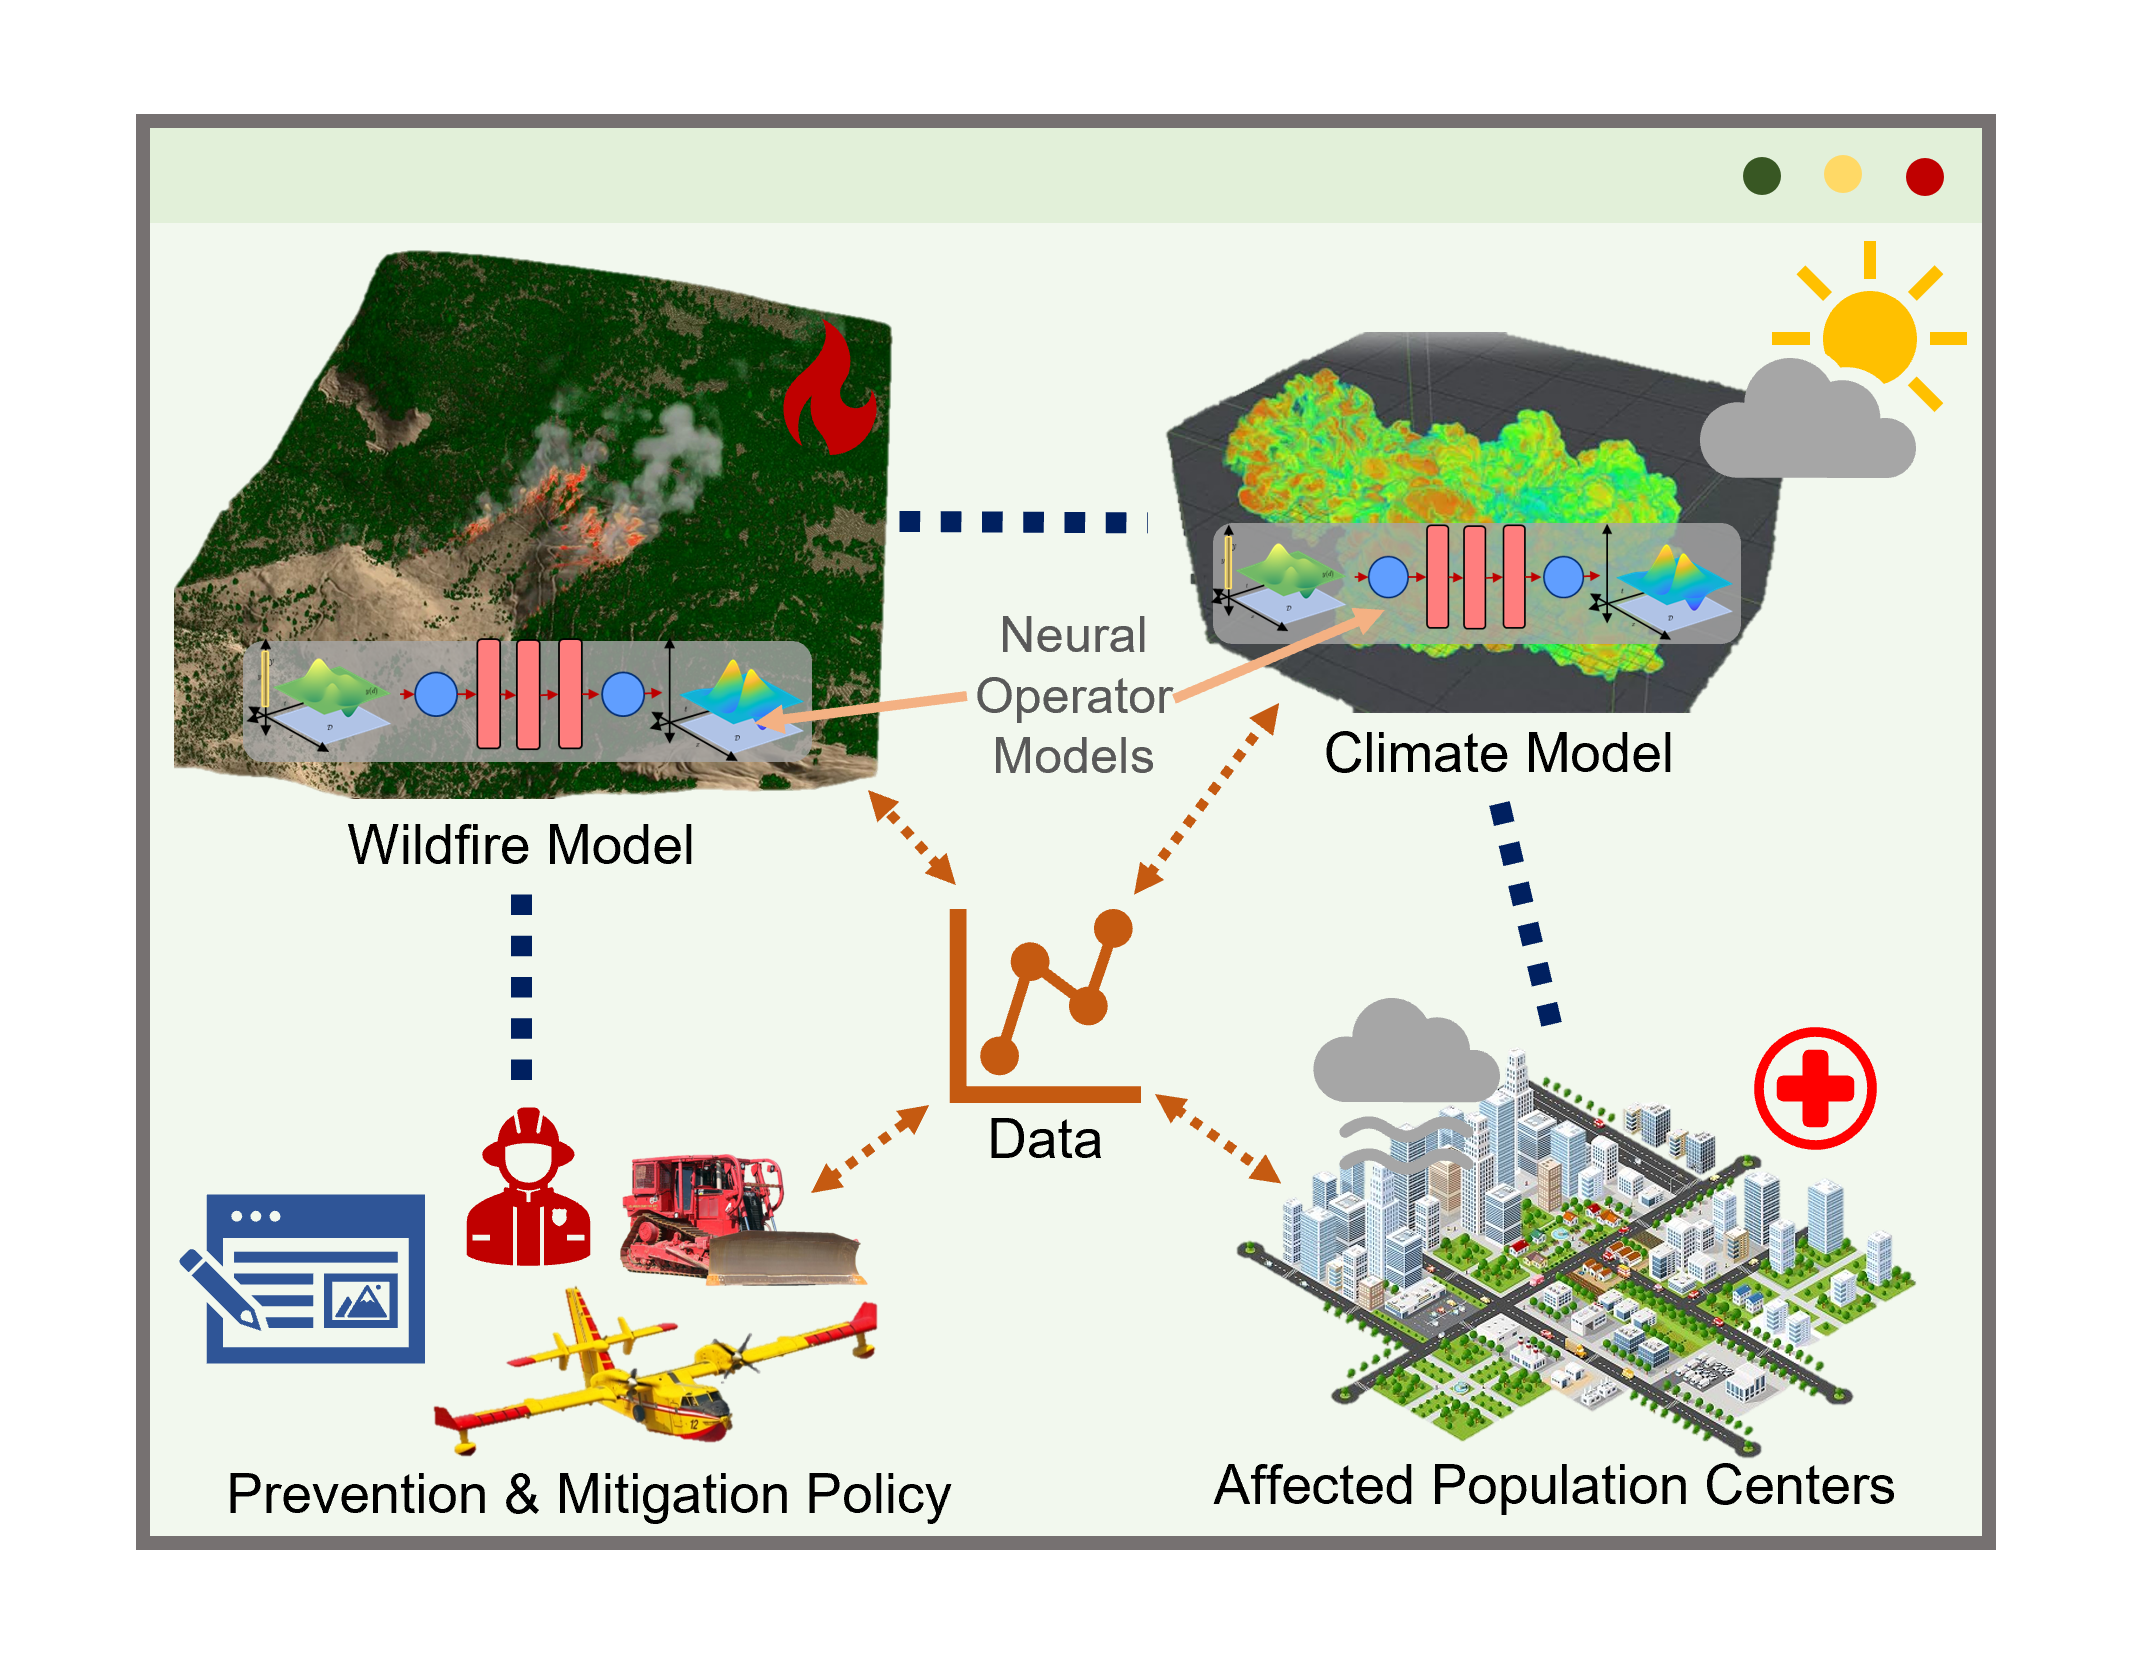
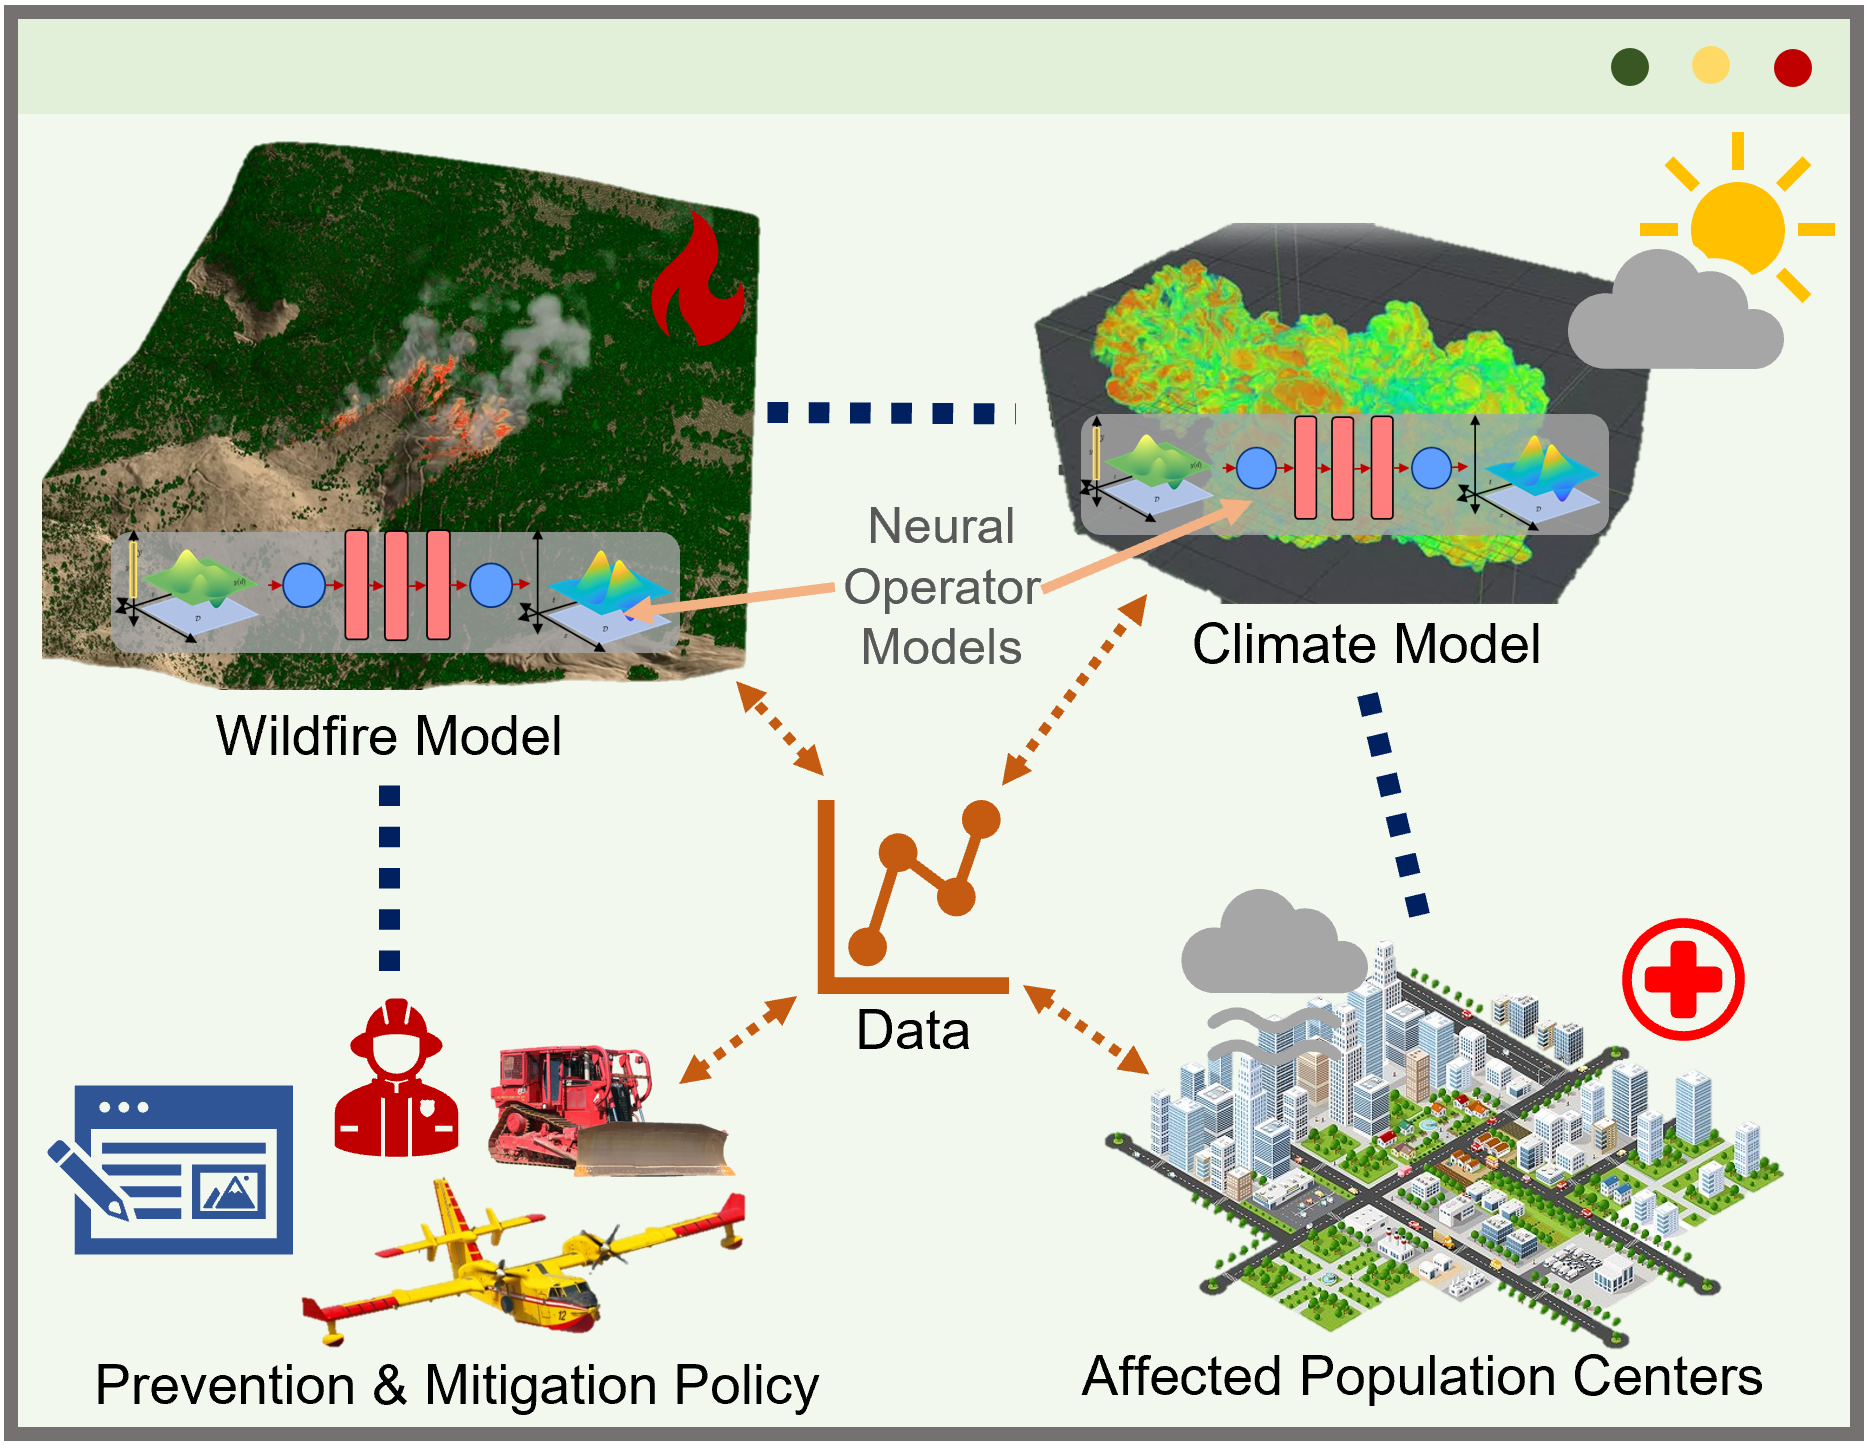
center image

diff --git a/_layouts/mdpage.html b/_layouts/mdpage.html
@@ -31,6 +31,14 @@
 		</div>
 	</section>
 
+	<style type="text/css">
+		.centerImage
+		{
+		 text-align:center;
+		 display:block;
+		}
+	</style>
+
 	<div id="main" class="alt">
 
 		<section id="one">

diff --git a/research/compvis.md b/research/compvis.md
@@ -12,13 +12,11 @@ banner_color: style5
 Computer vision sensors can <b>rapidly interpret photo/video data</b> signals (increasingly available in manufacturing facilities) to inform automated decision-making/control workflows (e.g., optimizing production and detecting anomalies) which promote the <b>increased safety, efficiency, sustainability, and reliability</b> of process systems. Illustrative applications include flare stack control, conveyor belt monitoring, temperature distribution control, and quality control. However, such computer vision aided control paradigms have seen limited investigation in process systems engineering and are only starting to generally emerge in industrial applications (despite significant industrial interest). Here, key challenges include <b>validating</b> control architecture robustness, designing computer vision strategies with <b>limited data</b>, and <b>assessing sensor health</b> in real-time.
 
 # Simulation for Verification
-<!-- ![SAFE-OCC](../assets/images/compvis_control.png) -->
-<img src="../assets/images/compvis_control.png" style="max-width:600px;width:100%">
+<img src="../assets/images/compvis_control.png" style="max-width:800px;width:100%" class="centerImage">
 
 My group will develop computational methods to <b>design, validate, and operate computer vision aided process control systems</b>. This work will entail 3 deliverables: (1) a computer vision process simulator, (2) <b>optimization-based validation</b> strategies that integrate with (1), and (3) a SAFE-OCC novelty detection framework with <b>uncertainty quantification</b>. Establishing (1) will enable us to generate large synthetic datasets, test sensor configuration designs, access a wide scenario envelope in (2), and <b>accelerate future research</b>. Moreover, (2) and (3) will enable us to assess computer vision <b>sensor robustness</b> both offline and online. My experience in this area coupled with my expertise in software development, data-science, decision-making, and process control puts my group in a unique position to tackle (1)-(3).
 
 # Real-Time Monitoring via SAFE-OCC
-<!-- ![SAFE-OCC](../assets/images/safe-occ.png) -->
-<img src="../assets/images/safe-occ.png" style="max-width:600px;width:100%">
+<img src="../assets/images/safe-occ.png" style="max-width:800px;width:100%" class="centerImage">
 
 A key vulnerability computer vision sensors introduce is <b>erroneous measurement</b> when subjected to uncertain visual disturbances, which can incur severe safety/profitability consequences. In close collaboration with ExxonMobil, I used my data-science expertise to develop a <b>tailored novelty detection framework</b> to rapidly assess the sensor prediction quality in real-time. Exploiting unique aspects of the CNN architecture, my approach incurs a significantly <b>lower overhead and higher accuracy</b> than off-the-shelf methods; moreover, it is part of a <b>pending U.S. patent</b>. Recently, to generalize this work I proposed the Sensor Activated Feature Extraction One-Class Classification (SAFE-OCC) novelty detection framework for general computer vision sensors.

diff --git a/research/wildfire.md b/research/wildfire.md
@@ -12,7 +12,6 @@ banner_color: style5
 Climate change is driving an <b>increase in wildfire extent and severity</b>. Recently, the 2018 Camp Fire burned 150,000+ acres, destroyed nearly 19,000 buildings (costing $16.5 billion), killed 85 people, and contributed to hundreds of excess deaths from poor air quality. Consequently, the U.S. spends $1+ billion annually to combat wildfires. Increases in fire activity, wildland urban interfaces, suppression costs, and controlled burn hazards suggest that current <b>fire management practices are unsustainable</b> and a fundamental shift from reactive to proactive responses is needed. More advanced modeling and decision-making tools are key to directing this paradigm shift. However, wildfires entail highly complex characteristics such as intricate combustion dynamics and external space-time uncertainties (e.g., weather, vegetation composition). Research is underway for <b>high-fidelity wildfire models</b> that accurately capture behavior and widespread impacts (e.g., air pollution). Challenges include modeling large terrains, procuring adequate data, and embedding these models in decision-making strategies.
 
 # Proposed Solution
-<img src="../assets/images/wildfire_mitigation.png" style="max-width:600px;width:100%">
-<!-- ![wildfire framework](../assets/images/wildfire_mitigation.png) -->
+<img src="../assets/images/wildfire_mitigation.png" style="max-width:700px;width:100%" class="centerImage">
 
 My group will engineer <b>scalable surrogate wildfire models</b> that guide data collection (monitoring) and readily embed into decision-making tools. Inspired by the success of neural operator models in emulating chaotic Navier-Stokes flow systems, we plan to develop <b>physics-informed neural operator models</b> to create high-fidelity models that rapidly predict wildfire behavior. With these we can conduct <b>scalable uncertainty propagation</b> to guide data collection (monitoring). Moreover, the computational efficiency of these surrogates facilitates the integration of high-fidelity models (e.g., fire and weather simulators) into decision-making tools, promoting <b>better informed fire-management strategies</b>. For instance, these can consider the impact of smoke from controlled burns on surrounding population areas. This work will be done in close collaboration with experts in wildfire research.
